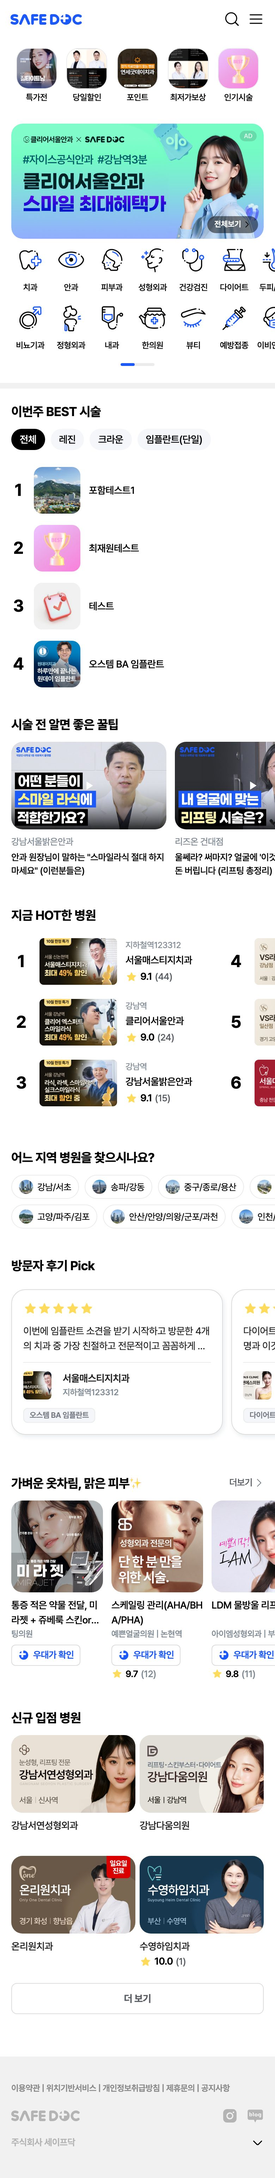
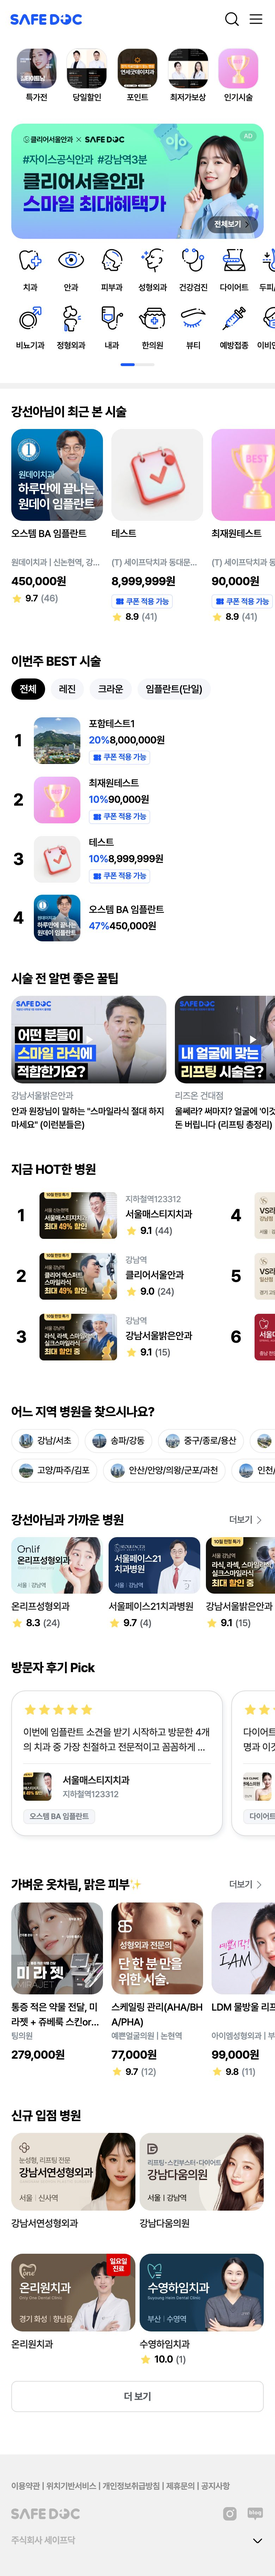
feat(new-safedocmain): 전체시술 모달 클릭 동작 + AS-IS 로그인 원본 + 설명 좌측 배치
- 전체 시술 모달: 카테고리 클릭 시 진료과 바로가기 아이콘과 동일하게 진료과 상세로 이동
- 개선메인 AS-IS: 로그인 상태 원본 캡처로 교체(최근 본 시술·가까운 병원 개인화 섹션 포함)
- 비교 레이아웃: 설명(변경점)을 하단 -> TO-BE 왼쪽 열(AS-IS 아래)로 이동

diff --git a/new-safedocmain/index.html b/new-safedocmain/index.html
@@ -169,9 +169,10 @@
   .tab svg{width:24px;height:24px;}
   .tab.on{color:#111;font-weight:700;}
 
-  /* ---- AS-IS vs TO-BE 비교 (왼쪽 현행 / 오른쪽 개선) ---- */
-  .stage.cmp{grid-template-columns:none;display:block;}
-  .cmp-phones{display:flex;gap:26px;justify-content:center;align-items:flex-start;flex-wrap:wrap;}
+  /* ---- AS-IS vs TO-BE 비교 (왼쪽: 현행+설명 / 오른쪽: 개선) ---- */
+  .stage.cmp{display:grid;grid-template-columns:minmax(0,1fr) 390px;grid-template-areas:"asis tobe" "expl tobe";column-gap:34px;row-gap:26px;align-items:start;justify-content:center;max-width:1080px;margin:0 auto;}
+  .cmp-col.asis{grid-area:asis;}
+  .cmp-col.tobe{grid-area:tobe;}
   .cmp-col{margin:0;display:flex;flex-direction:column;align-items:center;gap:11px;}
   .cmp-lbl{display:inline-flex;align-items:baseline;gap:5px;font-size:12.5px;font-weight:800;
     padding:6px 15px;border-radius:999px;white-space:nowrap;}
@@ -184,8 +185,8 @@
   .asis-scroll{overflow-y:auto;overflow-anchor:none;flex:1;scrollbar-width:thin;background:#fff;padding-top:16px;}
   .asis-scroll::-webkit-scrollbar{width:0}
   .asis-scroll img{display:block;width:100%;height:auto;}
-  .cmp-explain{max-width:900px;margin:36px auto 0;}
-  @media(max-width:900px){.cmp-phones{gap:16px;}}
+  .cmp-explain{grid-area:expl;max-width:none;margin:0;align-self:start;}
+  @media(max-width:900px){.stage.cmp{grid-template-columns:1fr;grid-template-areas:"asis" "tobe" "expl";justify-items:center;}.cmp-explain{max-width:520px;}}
 
   .caption{max-width:390px;margin:12px auto 0;text-align:center;font-size:12.5px;color:var(--muted);}
   .caption b{color:var(--ink);}
@@ -314,8 +315,10 @@
   .sheet-b{padding:16px 18px 26px;overflow-y:auto;}
   .sheet-note{background:var(--coral-50);color:#E23B40;font-size:12px;font-weight:700;border-radius:10px;padding:10px 13px;margin-bottom:14px;}
   .allgrid{display:grid;grid-template-columns:repeat(2,1fr);gap:10px;}
-  .allcat{border:1px solid var(--line);border-radius:12px;padding:12px 13px;}
-  .allcat .ct{font-size:13px;font-weight:800;margin-bottom:9px;color:var(--ink);}
+  .allcat{border:1px solid var(--line);border-radius:12px;padding:12px 13px;cursor:pointer;transition:border-color .15s,background .15s;}
+  .allcat:hover,.allcat:focus-visible{border-color:var(--blue);background:var(--blue-50);outline:none;}
+  .allcat .ct{font-size:13px;font-weight:800;margin-bottom:9px;color:var(--ink);display:flex;align-items:center;justify-content:space-between;}
+  .allcat .ct-ar{color:var(--blue);font-weight:700;}
   .allcat .it{display:flex;flex-wrap:wrap;gap:6px;}
   .allcat .it span{font-size:11.5px;background:var(--blue-50);color:var(--blue-700);border-radius:6px;padding:3px 8px;font-weight:600;}
   .deal-row{display:flex;align-items:center;gap:12px;padding:12px 0;border-bottom:1px solid var(--line);}
@@ -699,10 +702,9 @@
   <!-- ============ MAIN ============ -->
   <section class="view active" id="v-main">
     <div class="stage cmp">
-      <div class="cmp-phones">
-      <figure class="cmp-col"><figcaption class="cmp-lbl asis">AS-IS <small>· 현행 메인</small></figcaption>
+      <figure class="cmp-col asis"><figcaption class="cmp-lbl asis">AS-IS <small>· 현행 메인</small></figcaption>
       <div class="phone asis"><div class="screen"><div class="notch"></div><div class="asis-scroll"><img src="asis/main.jpg" alt="현행 welfaremall 메인" loading="lazy"></div><nav class="tabbar"><div class="tab on"><svg viewBox="0 0 24 24" fill="currentColor"><path d="M11.06 3.63a1.5 1.5 0 0 1 1.88 0l6.75 5.46a2 2 0 0 1 .71 1.53V19a2 2 0 0 1-2 2h-2.9v-4.9a1.5 1.5 0 0 0-1.5-1.5h-1a1.5 1.5 0 0 0-1.5 1.5V21H5.6a2 2 0 0 1-2-2v-8.38a2 2 0 0 1 .71-1.53Z"/></svg>홈</div><div class="tab"><svg viewBox="0 0 24 24" fill="none" stroke="currentColor" stroke-width="1.8"><path d="M12 21s7-6.2 7-11a7 7 0 1 0-14 0c0 4.8 7 11 7 11Z"/><circle cx="12" cy="10" r="2.5"/></svg>주변병원</div><div class="tab"><svg viewBox="0 0 24 24" fill="none" stroke="currentColor" stroke-width="1.8" stroke-linejoin="round"><path d="M20 11.5a7.5 7.5 0 0 1-7.5 7.5c-1.2 0-2.34-.28-3.35-.78L4.5 20l1.28-4.16A7.5 7.5 0 1 1 20 11.5Z"/></svg>채팅상담</div><div class="tab"><svg viewBox="0 0 24 24" fill="none" stroke="currentColor" stroke-width="1.8" stroke-linejoin="round"><rect x="3.5" y="8.5" width="17" height="5" rx="1"/><path d="M5 13.5V20a1 1 0 0 0 1 1h12a1 1 0 0 0 1-1v-6.5M12 8.5V21"/><path d="M12 8.5S10.5 4 8 4a2.2 2.2 0 0 0 0 4.5h4Zm0 0S13.5 4 16 4a2.2 2.2 0 0 1 0 4.5h-4Z"/></svg>혜택</div><div class="tab"><svg viewBox="0 0 24 24" fill="none" stroke="currentColor" stroke-width="1.8"><circle cx="12" cy="8" r="4"/><path d="M4 21c0-4 4-6 8-6s8 2 8 6"/></svg>MY</div></nav></div></div></figure>
-      <figure class="cmp-col"><figcaption class="cmp-lbl tobe">TO-BE <small>· 개선안</small></figcaption>
+      <figure class="cmp-col tobe"><figcaption class="cmp-lbl tobe">TO-BE <small>· 개선안</small></figcaption>
       <div class="phone">
         <div class="screen">
           <div class="notch"></div>
@@ -717,7 +719,6 @@
           </nav>
         </div>
       </div></figure>
-      </div>
       <div class="cmp-explain">
         <p class="caption" id="mainCap"></p>
         <div class="obspec" id="diffSpec">
@@ -748,10 +749,9 @@
   <!-- ============ 시술 리스트 ============ -->
   <section class="view" id="v-proclist">
     <div class="stage cmp">
-      <div class="cmp-phones">
-      <figure class="cmp-col"><figcaption class="cmp-lbl asis">AS-IS <small>· 현행 시술 리스트</small></figcaption>
+      <figure class="cmp-col asis"><figcaption class="cmp-lbl asis">AS-IS <small>· 현행 시술 리스트</small></figcaption>
       <div class="phone asis"><div class="screen"><div class="notch"></div><div class="asis-scroll"><img src="asis/list.jpg" alt="현행 welfaremall 시술 리스트" loading="lazy"></div><nav class="tabbar"><div class="tab on"><svg viewBox="0 0 24 24" fill="currentColor"><path d="M11.06 3.63a1.5 1.5 0 0 1 1.88 0l6.75 5.46a2 2 0 0 1 .71 1.53V19a2 2 0 0 1-2 2h-2.9v-4.9a1.5 1.5 0 0 0-1.5-1.5h-1a1.5 1.5 0 0 0-1.5 1.5V21H5.6a2 2 0 0 1-2-2v-8.38a2 2 0 0 1 .71-1.53Z"/></svg>홈</div><div class="tab"><svg viewBox="0 0 24 24" fill="none" stroke="currentColor" stroke-width="1.8"><path d="M12 21s7-6.2 7-11a7 7 0 1 0-14 0c0 4.8 7 11 7 11Z"/><circle cx="12" cy="10" r="2.5"/></svg>주변병원</div><div class="tab"><svg viewBox="0 0 24 24" fill="none" stroke="currentColor" stroke-width="1.8" stroke-linejoin="round"><path d="M20 11.5a7.5 7.5 0 0 1-7.5 7.5c-1.2 0-2.34-.28-3.35-.78L4.5 20l1.28-4.16A7.5 7.5 0 1 1 20 11.5Z"/></svg>채팅상담</div><div class="tab"><svg viewBox="0 0 24 24" fill="none" stroke="currentColor" stroke-width="1.8" stroke-linejoin="round"><rect x="3.5" y="8.5" width="17" height="5" rx="1"/><path d="M5 13.5V20a1 1 0 0 0 1 1h12a1 1 0 0 0 1-1v-6.5M12 8.5V21"/><path d="M12 8.5S10.5 4 8 4a2.2 2.2 0 0 0 0 4.5h4Zm0 0S13.5 4 16 4a2.2 2.2 0 0 1 0 4.5h-4Z"/></svg>혜택</div><div class="tab"><svg viewBox="0 0 24 24" fill="none" stroke="currentColor" stroke-width="1.8"><circle cx="12" cy="8" r="4"/><path d="M4 21c0-4 4-6 8-6s8 2 8 6"/></svg>MY</div></nav></div></div></figure>
-      <figure class="cmp-col"><figcaption class="cmp-lbl tobe">TO-BE <small>· 개선안</small></figcaption>
+      <figure class="cmp-col tobe"><figcaption class="cmp-lbl tobe">TO-BE <small>· 개선안</small></figcaption>
       <div class="phone">
         <div class="screen">
           <div class="notch"></div>
@@ -766,7 +766,6 @@
           </nav>
         </div>
       </div></figure>
-      </div>
       <div class="cmp-explain">
       <div class="obspec">
         <div class="spec-h">시술 리스트 — 검색·지역 기반 개편</div>
@@ -795,15 +794,13 @@
   <!-- ============ 예약 플로우 ============ -->
   <section class="view" id="v-reserve">
     <div class="stage cmp">
-      <div class="cmp-phones">
-      <figure class="cmp-col"><figcaption class="cmp-lbl asis">AS-IS <small>· 현행 시술 상세→예약</small></figcaption>
+      <figure class="cmp-col asis"><figcaption class="cmp-lbl asis">AS-IS <small>· 현행 시술 상세→예약</small></figcaption>
       <div class="phone asis"><div class="screen"><div class="notch"></div><div class="asis-scroll"><img src="asis/detail.jpg" alt="현행 welfaremall 시술 상세(예약 진입)" loading="lazy"></div><nav class="tabbar"><div class="tab on"><svg viewBox="0 0 24 24" fill="currentColor"><path d="M11.06 3.63a1.5 1.5 0 0 1 1.88 0l6.75 5.46a2 2 0 0 1 .71 1.53V19a2 2 0 0 1-2 2h-2.9v-4.9a1.5 1.5 0 0 0-1.5-1.5h-1a1.5 1.5 0 0 0-1.5 1.5V21H5.6a2 2 0 0 1-2-2v-8.38a2 2 0 0 1 .71-1.53Z"/></svg>홈</div><div class="tab"><svg viewBox="0 0 24 24" fill="none" stroke="currentColor" stroke-width="1.8"><path d="M12 21s7-6.2 7-11a7 7 0 1 0-14 0c0 4.8 7 11 7 11Z"/><circle cx="12" cy="10" r="2.5"/></svg>주변병원</div><div class="tab"><svg viewBox="0 0 24 24" fill="none" stroke="currentColor" stroke-width="1.8" stroke-linejoin="round"><path d="M20 11.5a7.5 7.5 0 0 1-7.5 7.5c-1.2 0-2.34-.28-3.35-.78L4.5 20l1.28-4.16A7.5 7.5 0 1 1 20 11.5Z"/></svg>채팅상담</div><div class="tab"><svg viewBox="0 0 24 24" fill="none" stroke="currentColor" stroke-width="1.8" stroke-linejoin="round"><rect x="3.5" y="8.5" width="17" height="5" rx="1"/><path d="M5 13.5V20a1 1 0 0 0 1 1h12a1 1 0 0 0 1-1v-6.5M12 8.5V21"/><path d="M12 8.5S10.5 4 8 4a2.2 2.2 0 0 0 0 4.5h4Zm0 0S13.5 4 16 4a2.2 2.2 0 0 1 0 4.5h-4Z"/></svg>혜택</div><div class="tab"><svg viewBox="0 0 24 24" fill="none" stroke="currentColor" stroke-width="1.8"><circle cx="12" cy="8" r="4"/><path d="M4 21c0-4 4-6 8-6s8 2 8 6"/></svg>MY</div></nav></div></div></figure>
-      <figure class="cmp-col"><figcaption class="cmp-lbl tobe">TO-BE <small>· 개선안</small></figcaption>
+      <figure class="cmp-col tobe"><figcaption class="cmp-lbl tobe">TO-BE <small>· 개선안</small></figcaption>
       <div class="phone"><div class="screen">
         <div class="notch"></div>
         <div class="scroll" id="rvScroll"></div>
       </div></div></figure>
-      </div>
       <div class="cmp-explain"><div class="obspec" id="rvSpec">
         <div class="spec-h">예약 플로우 개선 — 선(先)신청 · 후(後)상세입력</div>
         <div class="spec">
@@ -1056,7 +1053,7 @@ function openAllProcedures(){
     <div class="sheet"><div class="sheet-h"><h3>전체 시술</h3>
       <button class="x" onclick="closeOvl()" aria-label="닫기">${I.x}</button></div>
       <div class="sheet-b"><div class="allgrid">
-        ${allProc.map(([c,items])=>`<div class="allcat"><div class="ct">${c}</div><div class="it">${items.map(x=>`<span>${x}</span>`).join('')}</div></div>`).join('')}
+        ${allProc.map(([c,items])=>`<div class="allcat" role="button" tabindex="0" onclick="deptClick('${c}')" onkeydown="if(event.key==='Enter'||event.key===' '){event.preventDefault();deptClick('${c}')}"><div class="ct">${c} <span class="ct-ar">›</span></div><div class="it">${items.map(x=>`<span>${x}</span>`).join('')}</div></div>`).join('')}
       </div></div></div>`;
   o.hidden=false;
 }
